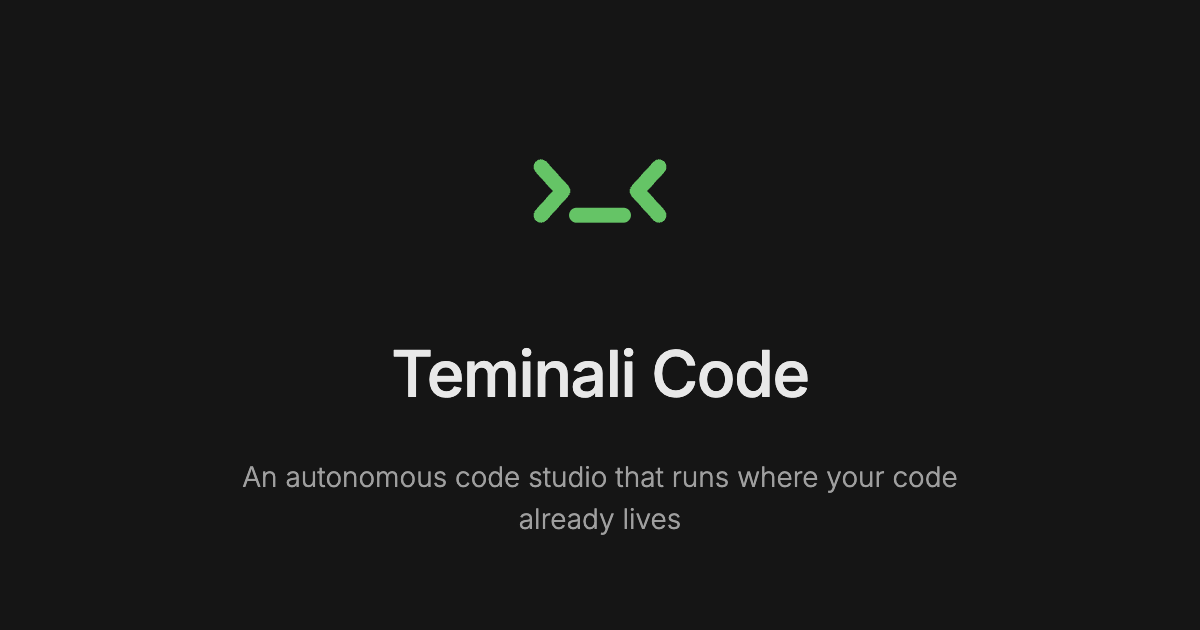
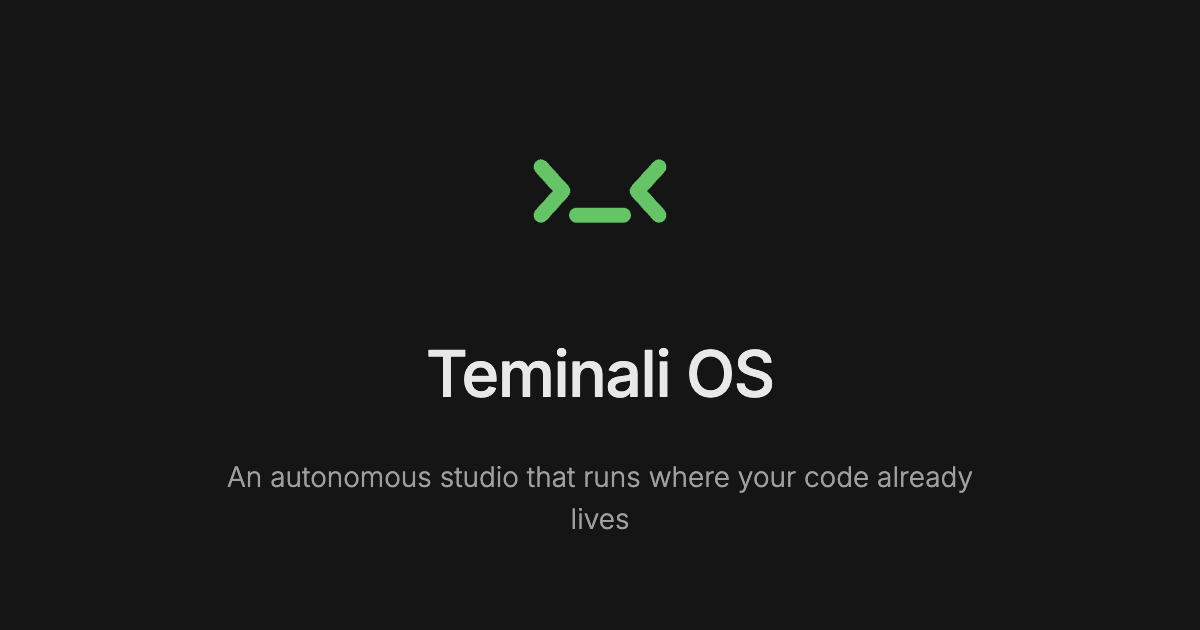
rebrand: the site is Teminali OS, and points at v0.0.1
Follows the product rename. The wordmark, the page title, the meta and OG
description, the token sheet header and the body copy all say Teminali OS, and
the descriptor drops "Code": an autonomous AI studio, not an autonomous AI code
studio.

The download section needed no rewiring. It reads the latest release from the
GitHub API at load and matches assets on architecture and extension, never on
the product name, so renamed artifacts resolve on their own. Only the fallback
shown before that fetch returns moved to v0.0.1, and the fallback sizes are now
labelled as what they are — measured on the last pre-0.0.1 build, overwritten
by the live release.

public/og.png is regenerated, so the social card no longer shows the old name.
tools/brand.mjs now takes the first Chromium it finds — the pinned Playwright
build, then a system Chrome, Edge or Chromium — because playwright-core ships
no browser and the pinned path only exists after `playwright install`. Verified
this changes nothing about the render: re-rendering the previous wordmark
through system Chrome reproduced the committed card byte for byte.

Changed region(s): [[0.185, 0.7238, 0.8325, 0.7841], [0.3083, 0.5429, 0.6783, 0.6333], [0.4317, 0.8143, 0.5858, 0.8444]]

diff --git a/src/content/site.ts b/src/content/site.ts
@@ -23,10 +23,10 @@
  */
 
 export const site = {
-  name: 'Teminali Code',
-  tagline: 'An autonomous code studio, screen recorder and video editor that runs on your machine.',
+  name: 'Teminali OS',
+  tagline: 'An autonomous studio, screen recorder and video editor that runs on your machine.',
   releaseUrl: 'https://github.com/teminali/releases/releases',
-  version: 'v1.2.9',
+  version: 'v0.0.1',
   email: 'hello@teminali.com',
 }
 
@@ -41,7 +41,7 @@ export const nav = [
 export const hero = {
   title: 'Write the code, prove it works and film the demo. All of it on your machine.',
   body: [
-    'Teminali Code is an autonomous code studio, a screen recorder and a video editor in one desktop app. It plans and edits across your repository, runs the real tests, and cuts the walkthrough, with local models, local speech and nothing leaving the machine unless you send it.',
+    'Teminali OS is an autonomous studio, a screen recorder and a video editor in one desktop app. It plans and edits across your repository, runs the real tests, and cuts the walkthrough, with local models, local speech and nothing leaving the machine unless you send it.',
     'Hosted providers are one setting away when you want them. They are never required.',
   ],
 }
@@ -97,13 +97,13 @@ export const scenes = [
     icon: 'play',
     /** The last scene is a player: the demo plays on the laptop screen and in
         the full-screen dialog. The shot is the studio's home screen. */
-    video: { id: 'WNAK7KHBLIs', title: 'Teminali Code demo' },
+    video: { id: 'WNAK7KHBLIs', title: 'Teminali OS demo' },
     caption: 'Watch it run, start to finish.',
     alt: 'The studio at rest: the mark, the composer and the recent repositories, ready for the demo to start.',
     float: {
       status: 'ok',
       kicker: 'Demo video',
-      title: 'Teminali Code demo · 4:17',
+      title: 'Teminali OS demo · 4:17',
       sub: 'Plays on this screen or full screen',
       slot: 'bottom-right',
     },
@@ -113,7 +113,7 @@ export const scenes = [
 export const platform = {
   badge: 'What it does',
   title: 'One app for the loop you already run: write, record, cut, verify.',
-  body: 'Most tools stop at the suggestion. Teminali Code keeps going, through the tests, the screen recording and the export, and shows its work at every step.',
+  body: 'Most tools stop at the suggestion. Teminali OS keeps going, through the tests, the screen recording and the export, and shows its work at every step.',
   rows: [
     {
       tagline: 'The autonomous agent',
@@ -365,10 +365,10 @@ export const process = {
 export const compare = {
   badge: 'The difference',
   title: 'Why one local studio beats four subscriptions',
-  sub: 'Teminali Code against the stack you are juggling now',
+  sub: 'Teminali OS against the stack you are juggling now',
   body: 'A hosted assistant, a screen recorder, a video editor and somewhere to keep it all. Each one good at its piece; none of them knows about the others, and every one of them wants your source.',
   ours: [
-    'Code studio, screen recorder and timeline editor in one window, on one loopback gateway.',
+    'Studio, screen recorder and timeline editor in one window, on one loopback gateway.',
     'Your source stays on the machine. Local models and local speech are the first lane, not a fallback.',
     'The take lands already cut. Beats matched, captions placed, camera choreographed, export ready.',
     'Verification runs against your real toolchain and reports the actual output, failures included.',
@@ -395,7 +395,7 @@ export const midCta = {
 export const about = {
   badge: 'About',
   title: 'Built by people who were tired of the gap',
-  body: 'Teminali Code came out of years of using developer and creator tools that were each excellent at their piece and useless at the seams between them.',
+  body: 'Teminali OS came out of years of using developer and creator tools that were each excellent at their piece and useless at the seams between them.',
   rows: [
     {
       title: 'The gap we kept hitting',
@@ -499,11 +499,12 @@ export const contact = {
 
 export const downloads = {
   kicker: 'Downloads',
-  title: 'Download Teminali Code',
+  title: 'Download Teminali OS',
   body: 'The full studio, video editor, routing gateway, and all five verification runtimes. One install, no cloud account, nothing to configure before it runs.',
   secondary: { label: 'All releases on GitHub', href: site.releaseUrl },
 
-  /* Fallback sizes are v1.2.9's assets; the live release overrides them. */
+  /* Indicative sizes only: they were measured on the last pre-0.0.1 build,
+     and the live release's real asset sizes overwrite them on load. */
   platforms: [
     { id: 'mac-arm', name: 'macOS', arch: 'Apple Silicon', ext: '.dmg', size: '148 MB', asset: /(arm64|aarch64|apple.?silicon).*\.dmg$/i },
     { id: 'mac-x64', name: 'macOS', arch: 'Intel', ext: '.dmg', size: '154 MB', asset: /(x64|x86_64|intel).*\.dmg$/i },
@@ -519,19 +520,19 @@ export const downloads = {
   mac: {
     kicker: 'First launch on macOS',
     title: 'The first time you open it, macOS will ask',
-    body: 'Teminali Code is not notarized by Apple yet, so the first time you open it macOS shows a dialog saying it cannot verify the developer. The only buttons it offers are Done and Move to Bin. That is expected, the app is safe, and clearing it takes about ten seconds.',
+    body: 'Teminali OS is not notarized by Apple yet, so the first time you open it macOS shows a dialog saying it cannot verify the developer. The only buttons it offers are Done and Move to Bin. That is expected, the app is safe, and clearing it takes about ten seconds.',
     once: 'This happens once, ever. Every launch after it is normal.',
     steps: [
       {
         n: '01',
         title: 'Open the app once, then click Done',
-        body: 'Double-click Teminali Code in Applications. When the dialog appears, click Done. Do not click Move to Bin. That deletes the app and you would have to download it again.',
+        body: 'Double-click Teminali OS in Applications. When the dialog appears, click Done. Do not click Move to Bin. That deletes the app and you would have to download it again.',
         figure: 'The macOS dialog, with Done and Move to Bin',
       },
       {
         n: '02',
         title: 'Open System Settings, then Privacy & Security',
-        body: 'Scroll down to the Security heading. You will see a line reading “Teminali Code was blocked to protect your Mac.” Click Open Anyway next to it.',
+        body: 'Scroll down to the Security heading. You will see a line reading “Teminali OS was blocked to protect your Mac.” Click Open Anyway next to it.',
         figure: 'Privacy & Security, showing Open Anyway',
       },
       {

diff --git a/src/components/StudioMock.tsx b/src/components/StudioMock.tsx
@@ -1,5 +1,5 @@
 /**
- * The Teminali Code studio: real captures of the shipping app.
+ * The Teminali OS studio: real captures of the shipping app.
  *
  * These are screenshots of the product itself, taken at 3x device pixel ratio
  * (3840x2400) so they survive the dolly push-in onto the laptop screen without
@@ -32,10 +32,10 @@ const shots = {
 export type ShotName = keyof typeof shots
 
 const alts = {
-  run: 'The Teminali Code studio running a task: a completed three-step plan, an edit to gateway/router.ts, and the run cost at $0.0000 on this Mac.',
-  video: 'The Teminali Code video editor: multi-track timeline, program monitor, inspector, and AI Video Copilot syncing cuts to 130 BPM beats.',
-  route: 'The Teminali Code studio showing which engine answered a task, the reason it was routed locally, and its token counts.',
-  verify: 'The Teminali Code studio after a verification run: typecheck, unit, core and build green, lint reporting three warnings.',
+  run: 'The Teminali OS studio running a task: a completed three-step plan, an edit to gateway/router.ts, and the run cost at $0.0000 on this Mac.',
+  video: 'The Teminali OS video editor: multi-track timeline, program monitor, inspector, and AI Video Copilot syncing cuts to 130 BPM beats.',
+  route: 'The Teminali OS studio showing which engine answered a task, the reason it was routed locally, and its token counts.',
+  verify: 'The Teminali OS studio after a verification run: typecheck, unit, core and build green, lint reporting three warnings.',
   copilot: 'The agent adding captions to a recording through the video tools, with the program monitor showing the screen and camera take.',
   editor: 'The video editor: media pool, program monitor, transform inspector and a timeline with grade, camera, cursor and screen tracks.',
   'editor-wide': 'The video editor expanded to the full window width.',

diff --git a/index.html b/index.html
@@ -4,10 +4,10 @@
     <meta charset="UTF-8" />
     <meta name="viewport" content="width=device-width, initial-scale=1.0" />
     <meta name="color-scheme" content="dark" />
-    <title>Teminali Code: the autonomous AI code studio that runs on your machine</title>
+    <title>Teminali OS: the autonomous AI studio that runs on your machine</title>
     <meta
       name="description"
-      content="Teminali Code is an autonomous AI code studio that runs locally. Local models, local speech, local screen understanding. Hosted providers available and never required."
+      content="Teminali OS is an autonomous AI studio that runs locally. Local models, local speech, local screen understanding. Hosted providers available and never required."
     />
     <meta name="theme-color" content="#151515" />
     <!-- Every raster form of the mark is generated from the same paths by
@@ -17,10 +17,10 @@
     <link rel="mask-icon" href="/favicon.svg" color="#65c466" />
 
     <meta property="og:type" content="website" />
-    <meta property="og:title" content="Teminali Code" />
+    <meta property="og:title" content="Teminali OS" />
     <meta
       property="og:description"
-      content="An autonomous AI code studio that runs on your machine. Local models, local speech, local screen understanding."
+      content="An autonomous AI studio that runs on your machine. Local models, local speech, local screen understanding."
     />
     <meta property="og:image" content="/og.png" />
     <meta property="og:image:width" content="1200" />

diff --git a/src/three/scene.ts b/src/three/scene.ts
@@ -196,7 +196,7 @@ export function createLaptopScene(config: LaptopSceneConfig): LaptopSceneInstanc
       // Screen overlay fade in
       timeline.to('[data-intro="wrap"]', { duration: 0.2, opacity: 1 }, 1.9)
 
-      // Scene 1: Autonomous Code Studio
+      // Scene 1: Autonomous AI Studio
       timeline.to('[data-intro="overlay-1"]', { opacity: 1, duration: 0.5 })
       timeline.to('[data-intro="text-wrap-1"]', { opacity: 1, duration: 1 }, '<')
       timeline.to('[data-intro=\"img-float-1\"]', { y: 0, opacity: 1, z: 40, duration: 0.5 }, '<0.15')

diff --git a/src/styles/tokens.css b/src/styles/tokens.css
@@ -1,5 +1,5 @@
 /* =============================================================================
-   TEMINALI CODE. Landing token sheet.
+   TEMINALI OS. Landing token sheet.
 
    Copied from frontier/studio/src/styles/tokens.css. The governing rule from
    that file applies here unchanged: the interface is achromatic, depth comes
